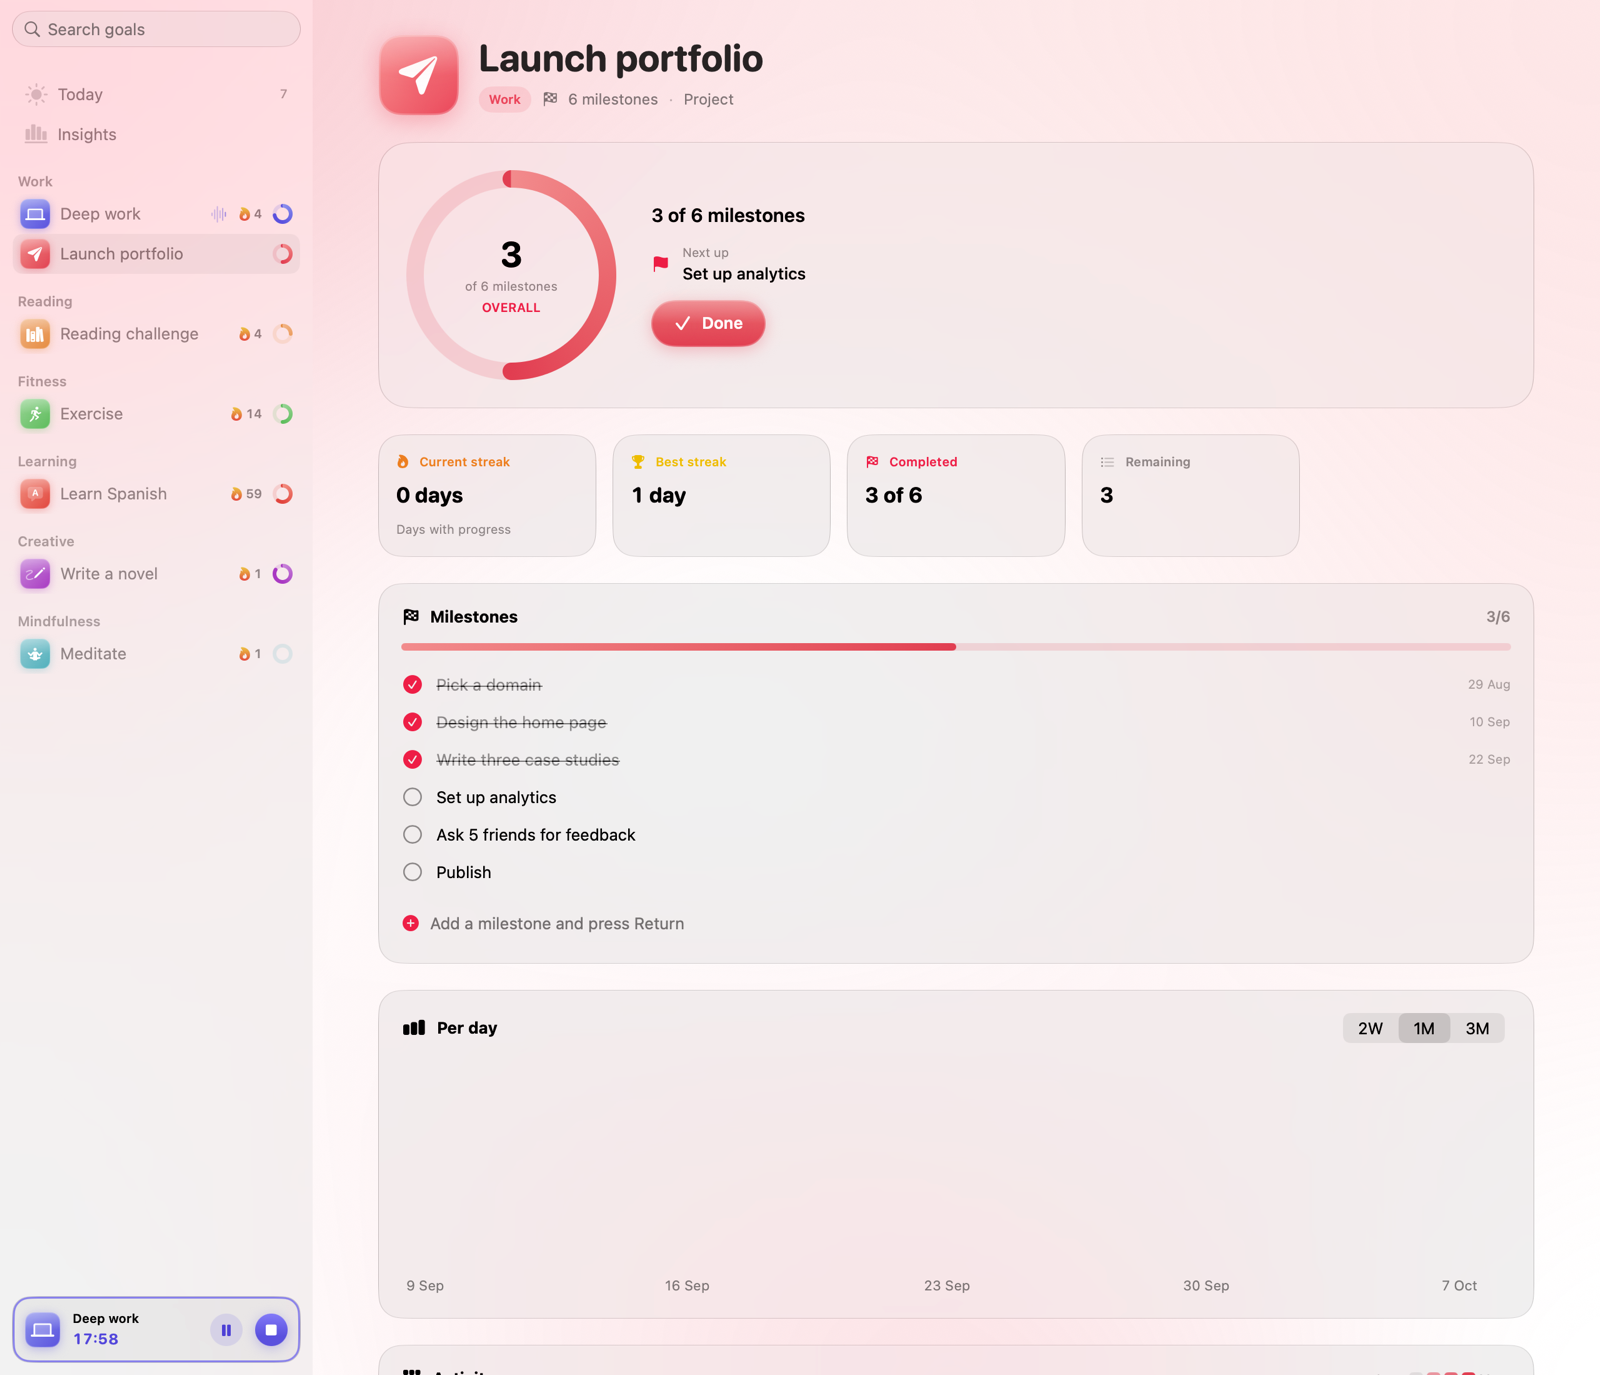
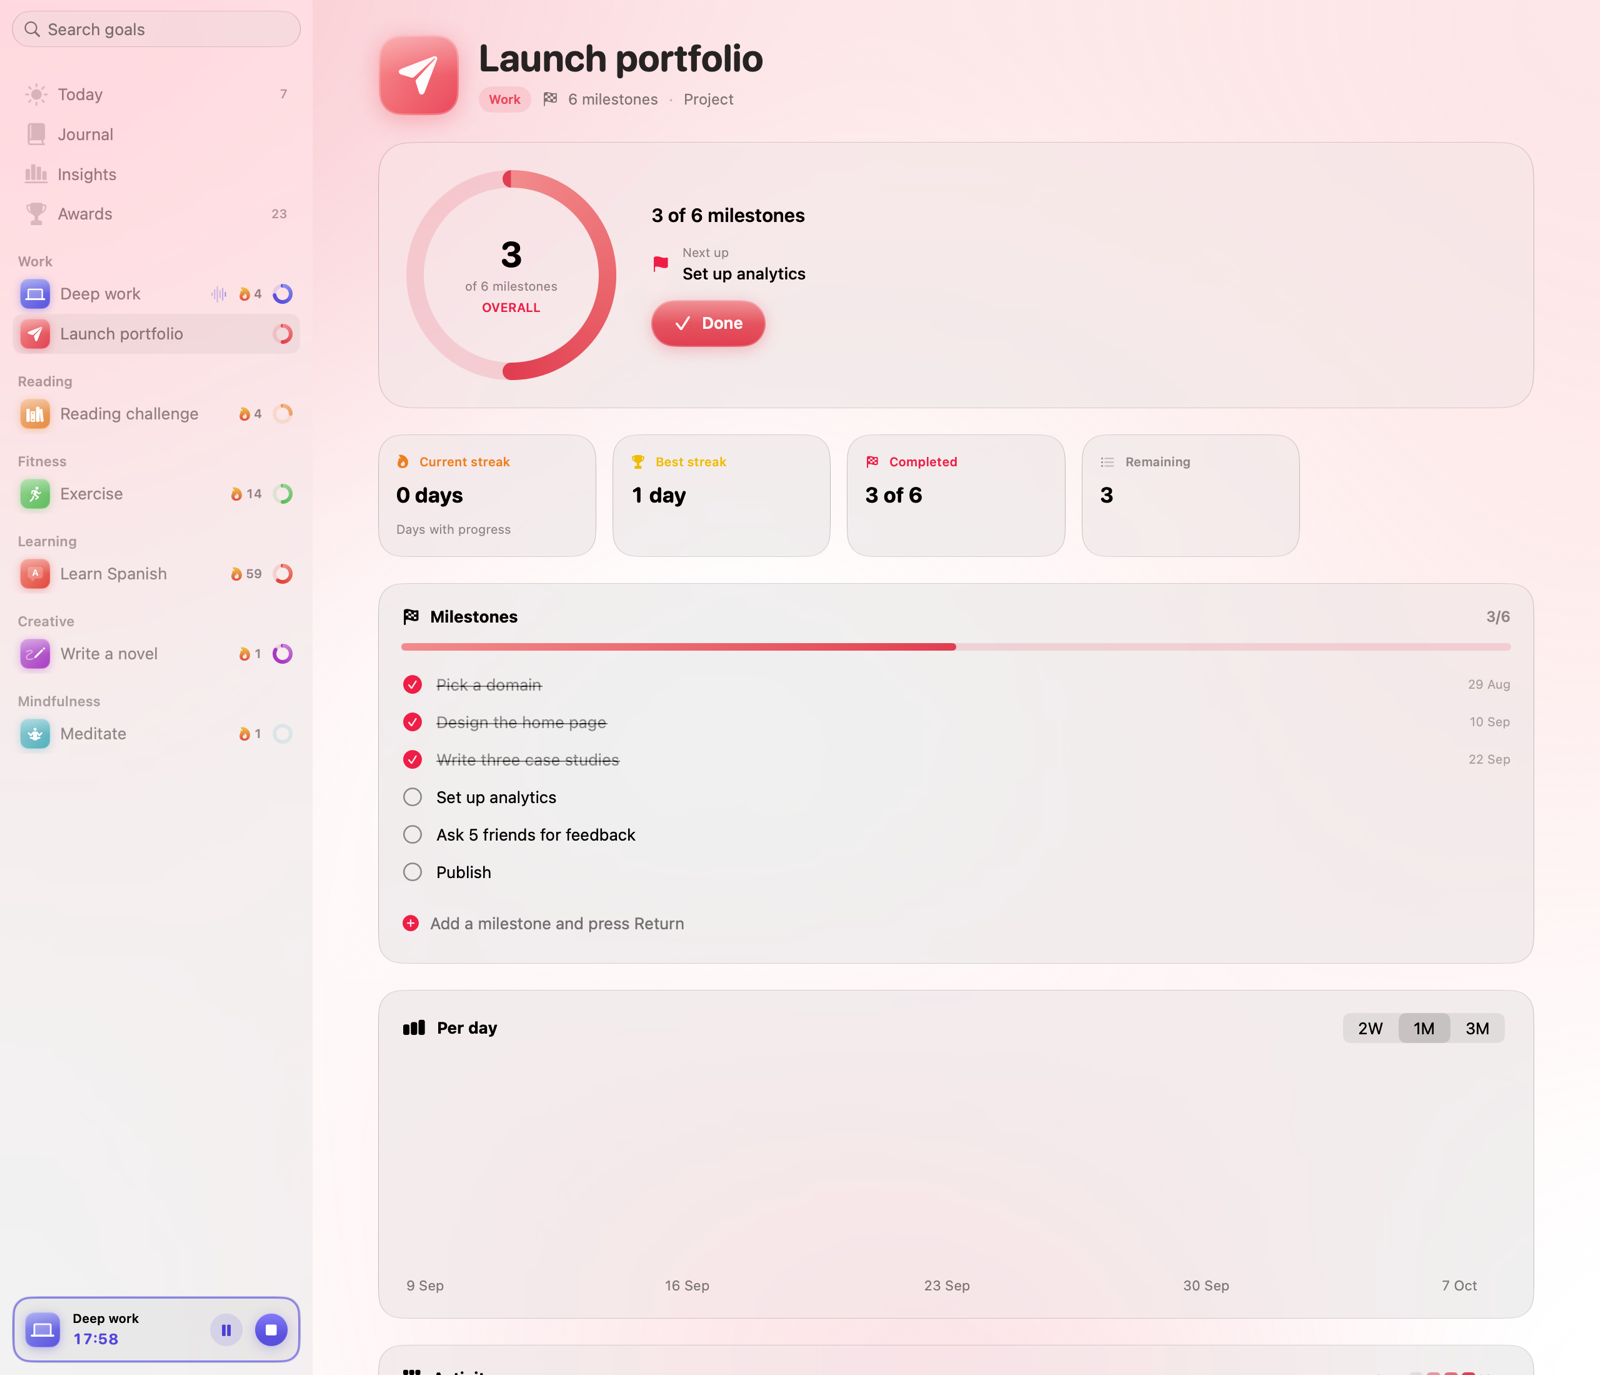
Fill the demo with journal entries, a habit stack and awards, and refresh screenshots

diff --git a/Packages/MomentumKit/Sources/MomentumCore/Support/DemoData.swift b/Packages/MomentumKit/Sources/MomentumCore/Support/DemoData.swift
@@ -122,6 +122,40 @@ extension AppData {
             }
         }
         data.entries.sort { $0.date < $1.date }
+
+        // Habit stack: Spanish right after meditating.
+        data.goals[3].stackAfter = meditate.id
+
+        // Journal: most evenings rated, with better moods on better days; plans on most mornings.
+        let engine = ProgressEngine(data: data, calendar: calendar)
+        let wins = ["Finished the chapter", "Shipped the widget fix", "Ran 5 km without stopping", "A whole Spanish podcast, understood",
+                    "Inbox zero before lunch", "Wrote 1,200 words", "Deep work before the meetings"]
+        let intentions = ["Protect the morning for deep work", "Small steps, every goal", "Finish what I started", "Be present, one thing at a time"]
+        for offset in stride(from: -45, through: -1, by: 1) where random.chance(0.8) {
+            let date = day(offset)
+            let summary = engine.daySummary(date, now: now)
+            let base = 2 + Int(((summary.completion ?? 0.5) * 3).rounded())
+            let mood = Mood(rawValue: min(5, max(1, base + random.next(upTo: 2) - (random.chance(0.3) ? 1 : 0))))
+            data.updateJournal(for: DayID(date, calendar: calendar), at: at(offset, hour: 21, minute: 40)) { entry in
+                entry.mood = mood
+                entry.energy = Energy(rawValue: min(5, max(1, base - 1 + random.next(upTo: 3))))
+                if random.chance(0.6) { entry.win = wins[random.next(upTo: wins.count)] }
+                if random.chance(0.5) {
+                    entry.intention = intentions[random.next(upTo: intentions.count)]
+                    entry.priorities = [deepWork.id, spanish.id, reading.id].prefix(1 + random.next(upTo: 3)).map { $0 }
+                }
+            }
+        }
+        data.updateJournal(for: DayID(now, calendar: calendar), at: at(0, hour: 8, minute: 5)) { entry in
+            entry.intention = "Ship the Pomodoro release, then read in the sun"
+            entry.priorities = [deepWork.id, spanish.id, reading.id]
+        }
+
+        // Achievements earned along the way, dated over the past months.
+        let earned = data.recordAchievements(now: now, calendar: calendar)
+        for (index, achievement) in earned.enumerated() {
+            data.achievements[achievement.id] = at(-(index * 9 % 140) - 1, hour: 18 + index % 4)
+        }
         return data
     }
 }
